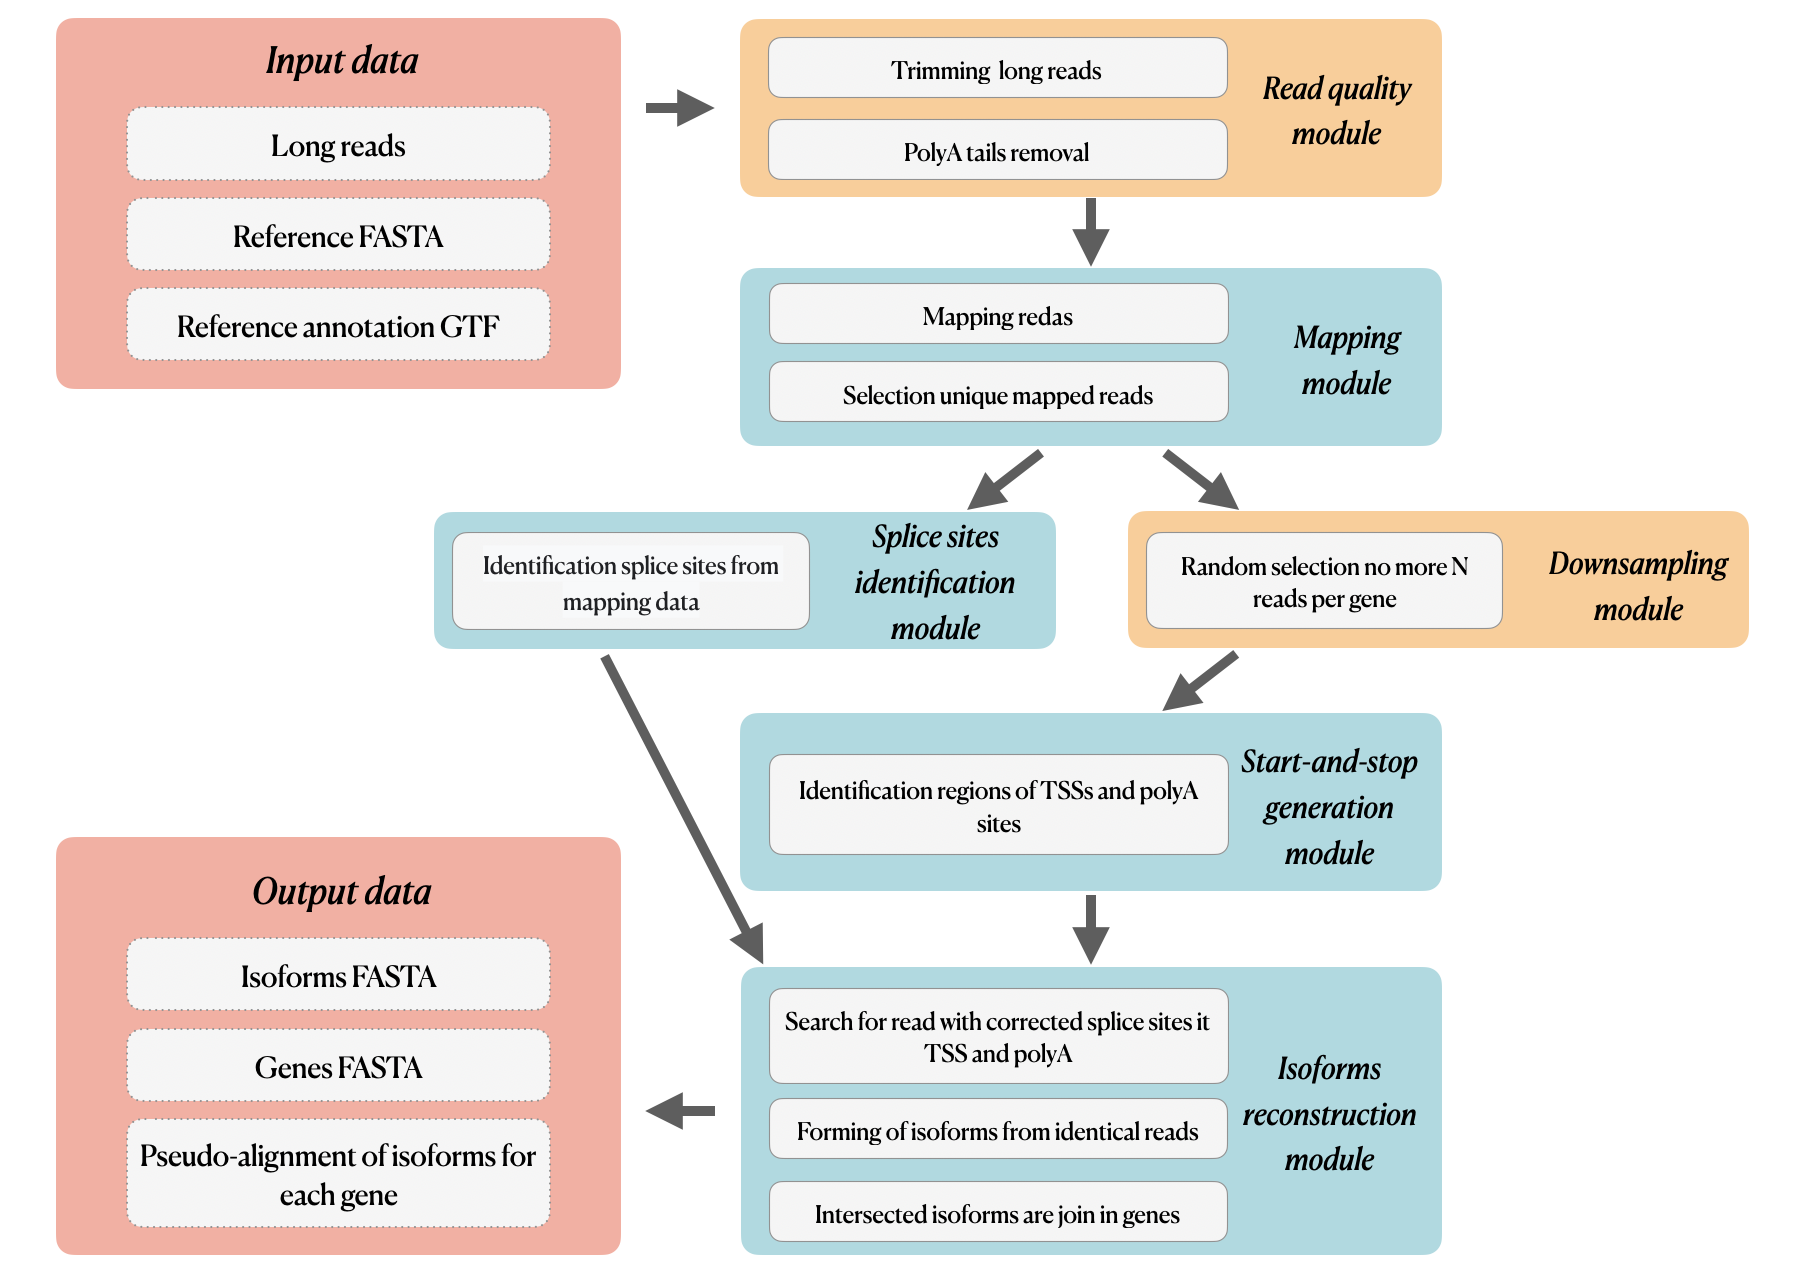
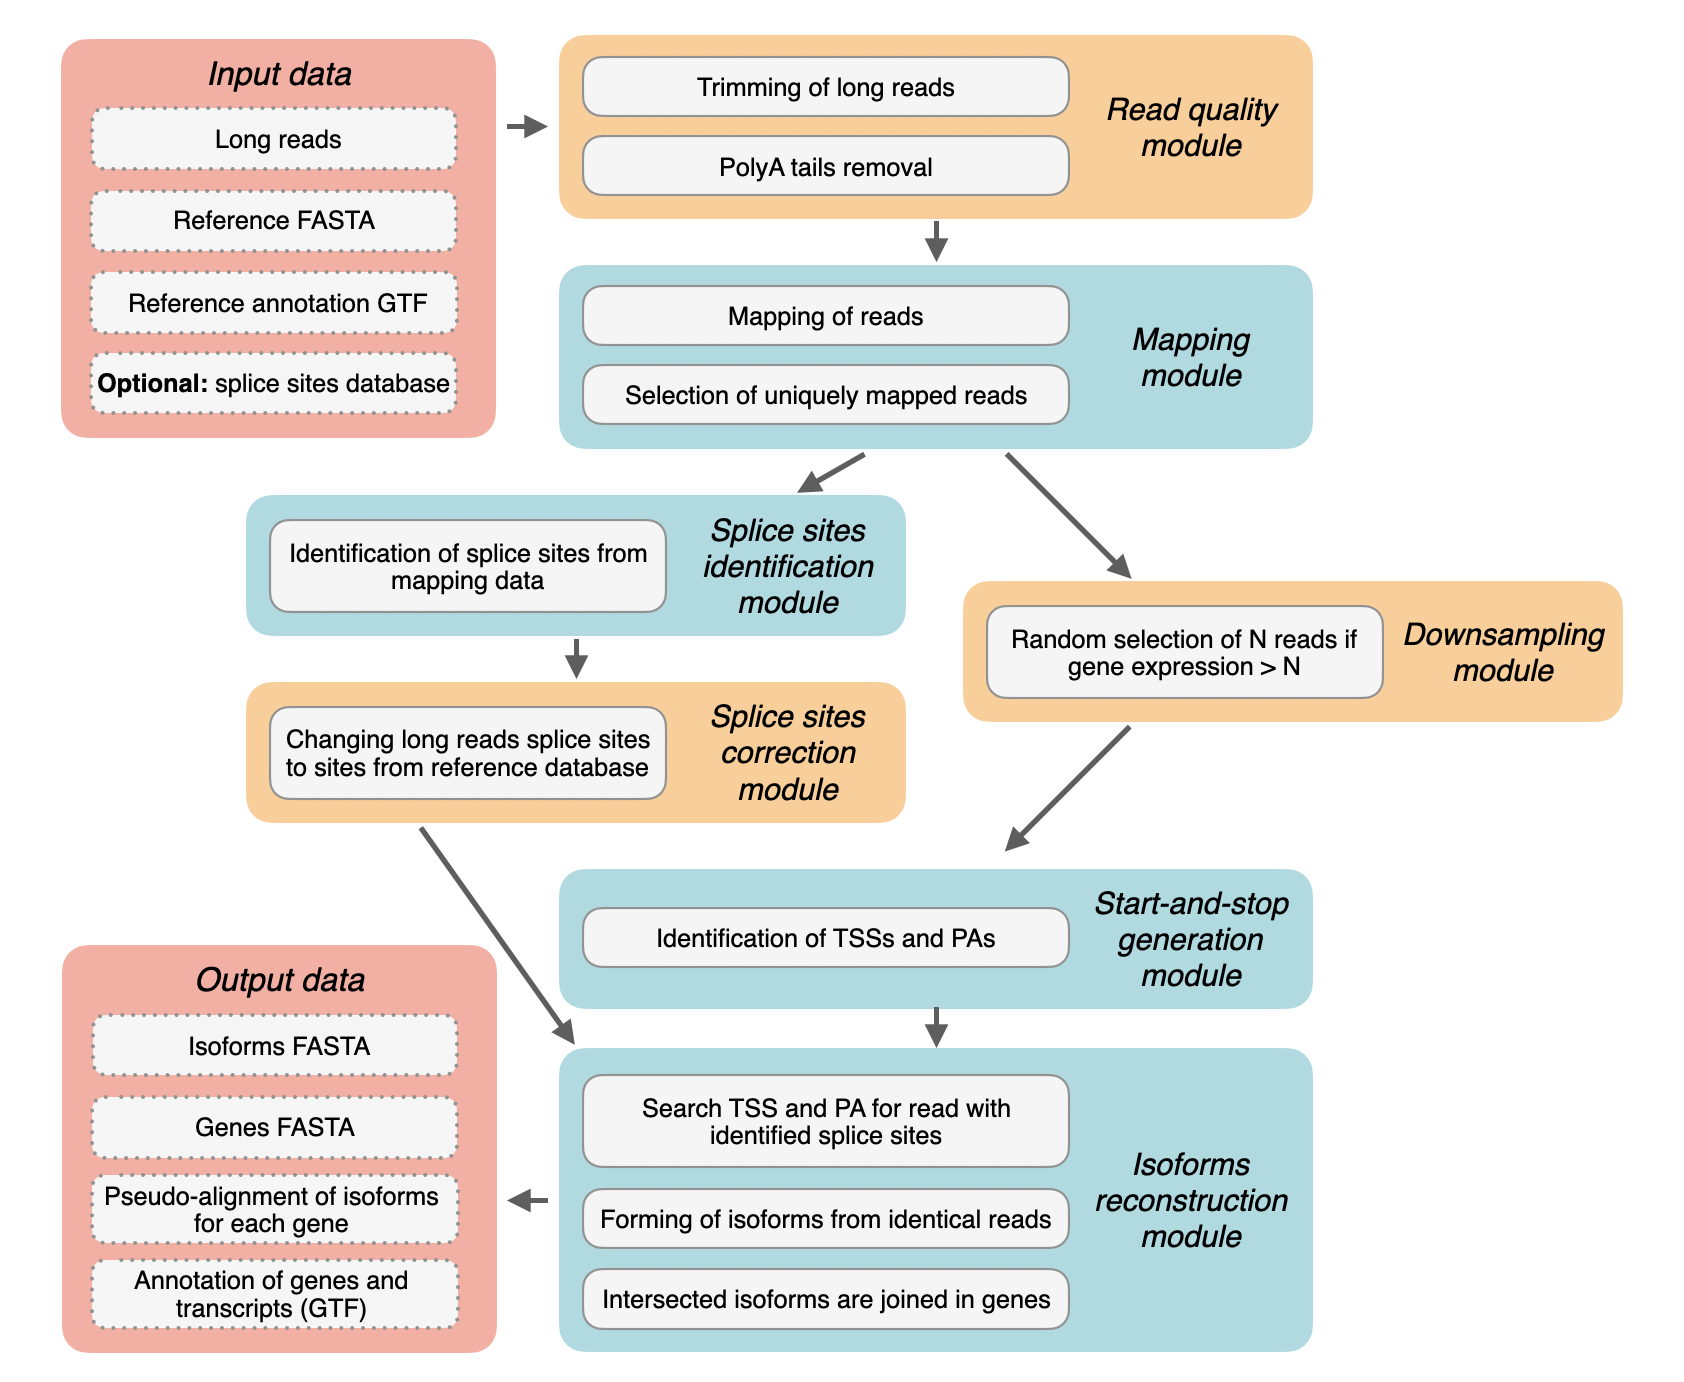
Updated README.md

diff --git a/README.md b/README.md
@@ -14,12 +14,19 @@ FLIC has a modular structure:
 
 - <span style="font-size:1.1em;"> READ QUALITY MODULE </span> (<b><i> optional </i></b>) takes as input long reads, trim them by quality score together with polyA tail removal;
 - <span style="font-size:1.1em;"> MAPPING MODULE </span> takes trimmed ONT reads and the reference genome assembly and maps them in a splice mode;
-- <span style="font-size:1.1em;"> SPLICE SITES IDENTIFICATION MODULE </span> describes each read as a set of prolonged alignment gaps potentially corresponding to introns. The module has an option for splice site correction; (option <b><i>--splice_sites</i></b>), e.g. obtained from Illumina read mapping or extracted from genome annotation, to verify splice sites obtained from long reads;
-- <span style="font-size:1.1em;"> DOWNSAMPLING MODULE </span> (<b><i> optional </i></b>) deals with highly expressed genes: for genes that produce large amount of RNA molecules the absolute number of long reads derived from tattered RNA is high which can result in incorrect TSS identification. To resolve the issue, a fixed number (1000 by default) of reads is randomly selected from all reads mapped on a highly expressed  gene. This step depends on genome annotation;
+- <span style="font-size:1.1em;"> SPLICE SITES IDENTIFICATION MODULE </span> for each read, the coordinates of extended gaps labeled with the symbol “N” were extracted from the CIGAR string of an alignment and stored in an intermediate file;
+- <span style="font-size:1.1em;"> SPLICE SITES CORRECTION MODULE </span> splice sites extracted from long read mapping are compared to the splice sites DB derived from Illumina read mapping or extracted from genome annotation to validate the splice sites derived from long reads;
+- <span style="font-size:1.1em;"> DOWNSAMPLING MODULE </span> (<b><i> optional </i></b>) deals with highly expressed genes: for genes that produce large amount of RNA molecules the absolute number of long reads derived from tattered RNA is high which can result in incorrect TSS identification. To resolve the issue, a fixed number (1000 by default) of reads is randomly selected from all reads mapped on a highly expressed  gene. This step depends on genome annotation. It is recommended to use this optional module;
 - <span style="font-size:1.1em;"> START-AND-STOP GENERATION MODULE </span> is based on peak calling. Mapped reads (either downsampled or not) are used for identification of regions corresponding to 5’-end coordinates (presumable TSSs) and 3’-end coordinates (possible polyA sites);
-- <span style="font-size:1.1em;"> ISOFORM RECONSTRUCTION MODULE </span> searches each read against a list of TSSs and polyA sites identified by start-and-stop generation module. Reads with identical TSS region, set of splicing sites and polyA sites region are grouped together and form isoform.  Correct isoforms are compared with each other by coordinates and join in genes.
+- <span style="font-size:1.1em;"> ISOFORMS RECONSTRUCTION MODULE </span> searches each read against a list of TSSs and polyA sites identified by start-and-stop generation module. Reads with identical TSS region, set of splicing sites and polyA sites region are grouped together and form isoform.  Correct isoforms are compared with each other by coordinates and join in genes.
 
 ## Installation
+To begin, download FLIC:
+```bash
+git clone https://github.com/albidgy/FLIC
+cd FLIC
+```
+
 FLIC requies Python (v. 3.10+) and R (v. 4.3+). The following external programs need to be installed for FLIC work:
 - [Porechop v. 0.2.3+](https://github.com/rrwick/Porechop) (_optional_)
 - [cutadapt v. 4.4+](https://github.com/marcelm/cutadapt) (_optional_)
@@ -33,19 +40,18 @@ To install this programs in separate conda environment ```flic_env```, run the _
 bash create_flic_env.sh
 ```
 
-The installation of the R [CAGEfightR](https://bioconductor.org/packages/release/bioc/html/CAGEfightR.html) and [argparse](https://cran.r-project.org/web/packages/argparse/index.html) packages is also required.
+The installation of the R [CAGEfightR](https://bioconductor.org/packages/release/bioc/html/CAGEfightR.html) and [argparse](https://cran.r-project.org/web/packages/argparse/index.html) packages is also required. Note that R packages need to be installed sequentially.
 ```R
 if (!require("BiocManager", quietly = TRUE))
     install.packages("BiocManager")
 BiocManager::install("CAGEfightR")
-
+```
+```R
 install.packages("argparse")
 ```
 
 Next install FLIC using pip:
 ```bash
-git clone https://github.com/albidgy/FLIC
-cd FLIC
 pip3 install .
 
 # check FLIC installation
@@ -74,30 +80,43 @@ flic [OPTIONS] --long_reads /path/to/ont_rep1.fastq,/path/to/ont_rep2.fastq \
 
 -o / --output_dir         Output directory [default: ./res_flic_YEAR_MONTH_DAY_HOUR_MINUTE_SECOND]
 
---trim_long_reads         Add trimming long reads step by using Porechop tool
+--trim_long_reads         (Read quality module) Add trimming long reads step by using Porechop tool
 
---cut_adapt               Cut polyA tail of long reads by using cutadapt tool
+--cut_adapt               (Read quality module) Cut polyA tail of long reads by using cutadapt tool
 
---make_downsampling       Make a downsampling long reads by given threshold
+--make_downsampling       (Downsampling module) Make a downsampling long reads by given threshold
 
---extra_filter_iso        Perform additional filtering of final isoforms based on expression levels 
-                          greater than or equal to 1% of total gene expression. 
+--extra_filter_iso        (Isoforms reconstruction module) Perform additional filtering of final isoforms 
+                          based on expression levels greater than or equal to 1% of total gene expression. 
                           NOTE: gene boundaries will not be changed
 ```
 <span style="font-size:1.2em;"> Optional arguments </span>
 
 ```
---splice_sites            Path to file with a list of splice sites
+--splice_sites            (Splice sites correction module) Path to file with a list of splice sites
 
---downsampling_min_thr    Number of reads per gene less than a specified value is considered noise and is excluded from
-                          the analysis [default: 5]
+--downsampling_min_thr    (Downsampling module) Number of reads per gene less than a specified value is 
+                          considered noise and is excluded from the analysis [default: 5]
                           
---downsampling_max_thr    Maximum number of reads per gene remaining after downsampling [default: 1000]
+--downsampling_max_thr    (Downsampling module) Maximum number of reads per gene remaining after 
+                          downsampling [default: 1000]
 
---iso_thr1                Minimum number of reads forming an isoform at least in 1 replicate [default: 5]
+--iso_thr1                (Isoforms reconstruction module) Minimum number of reads forming an isoform at 
+                          least in 1 replicate [default: 5]
 
---iso_thr2                Minimum number of reads forming an isoform in another replicate [default: 1]
+--iso_thr2                (Isoforms reconstruction module) Minimum number of reads forming an isoform in 
+                          another replicate [default: 1]
 ```
+
+As output FLIC provides reconstructed isoforms and genes in FASTA format along with pseudo-alignment of isoforms for each gene and annotation in GTF format.
+
+You can run the FLIC tool on test data:
+```bash
+flic --long_reads ./example/long_reads/rep1.fastq.gz,./example/long_reads/rep2.fastq.gz,./example/long_reads/rep3.fastq.gz \
+--ref_fasta ./example/genome/athaliana_1Mb.fasta --ref_annot ./example/genome/athaliana_1Mb.gtf \
+--splice_sites ./example/splice_sites.tsv --cut_adapt --make_downsampling --extra_filter_iso -t 5
+```
+Assuming you are in the FLIC directory, use this command.
 
 ## Troubleshooting
 If you have an error: __"bedGraphToBigWig: error while loading shared libraries: libssl.so.1.0.0: cannot open shared object file: No such file or directory"__, you can try to resolve it by installing correct version of library using the following commands:
